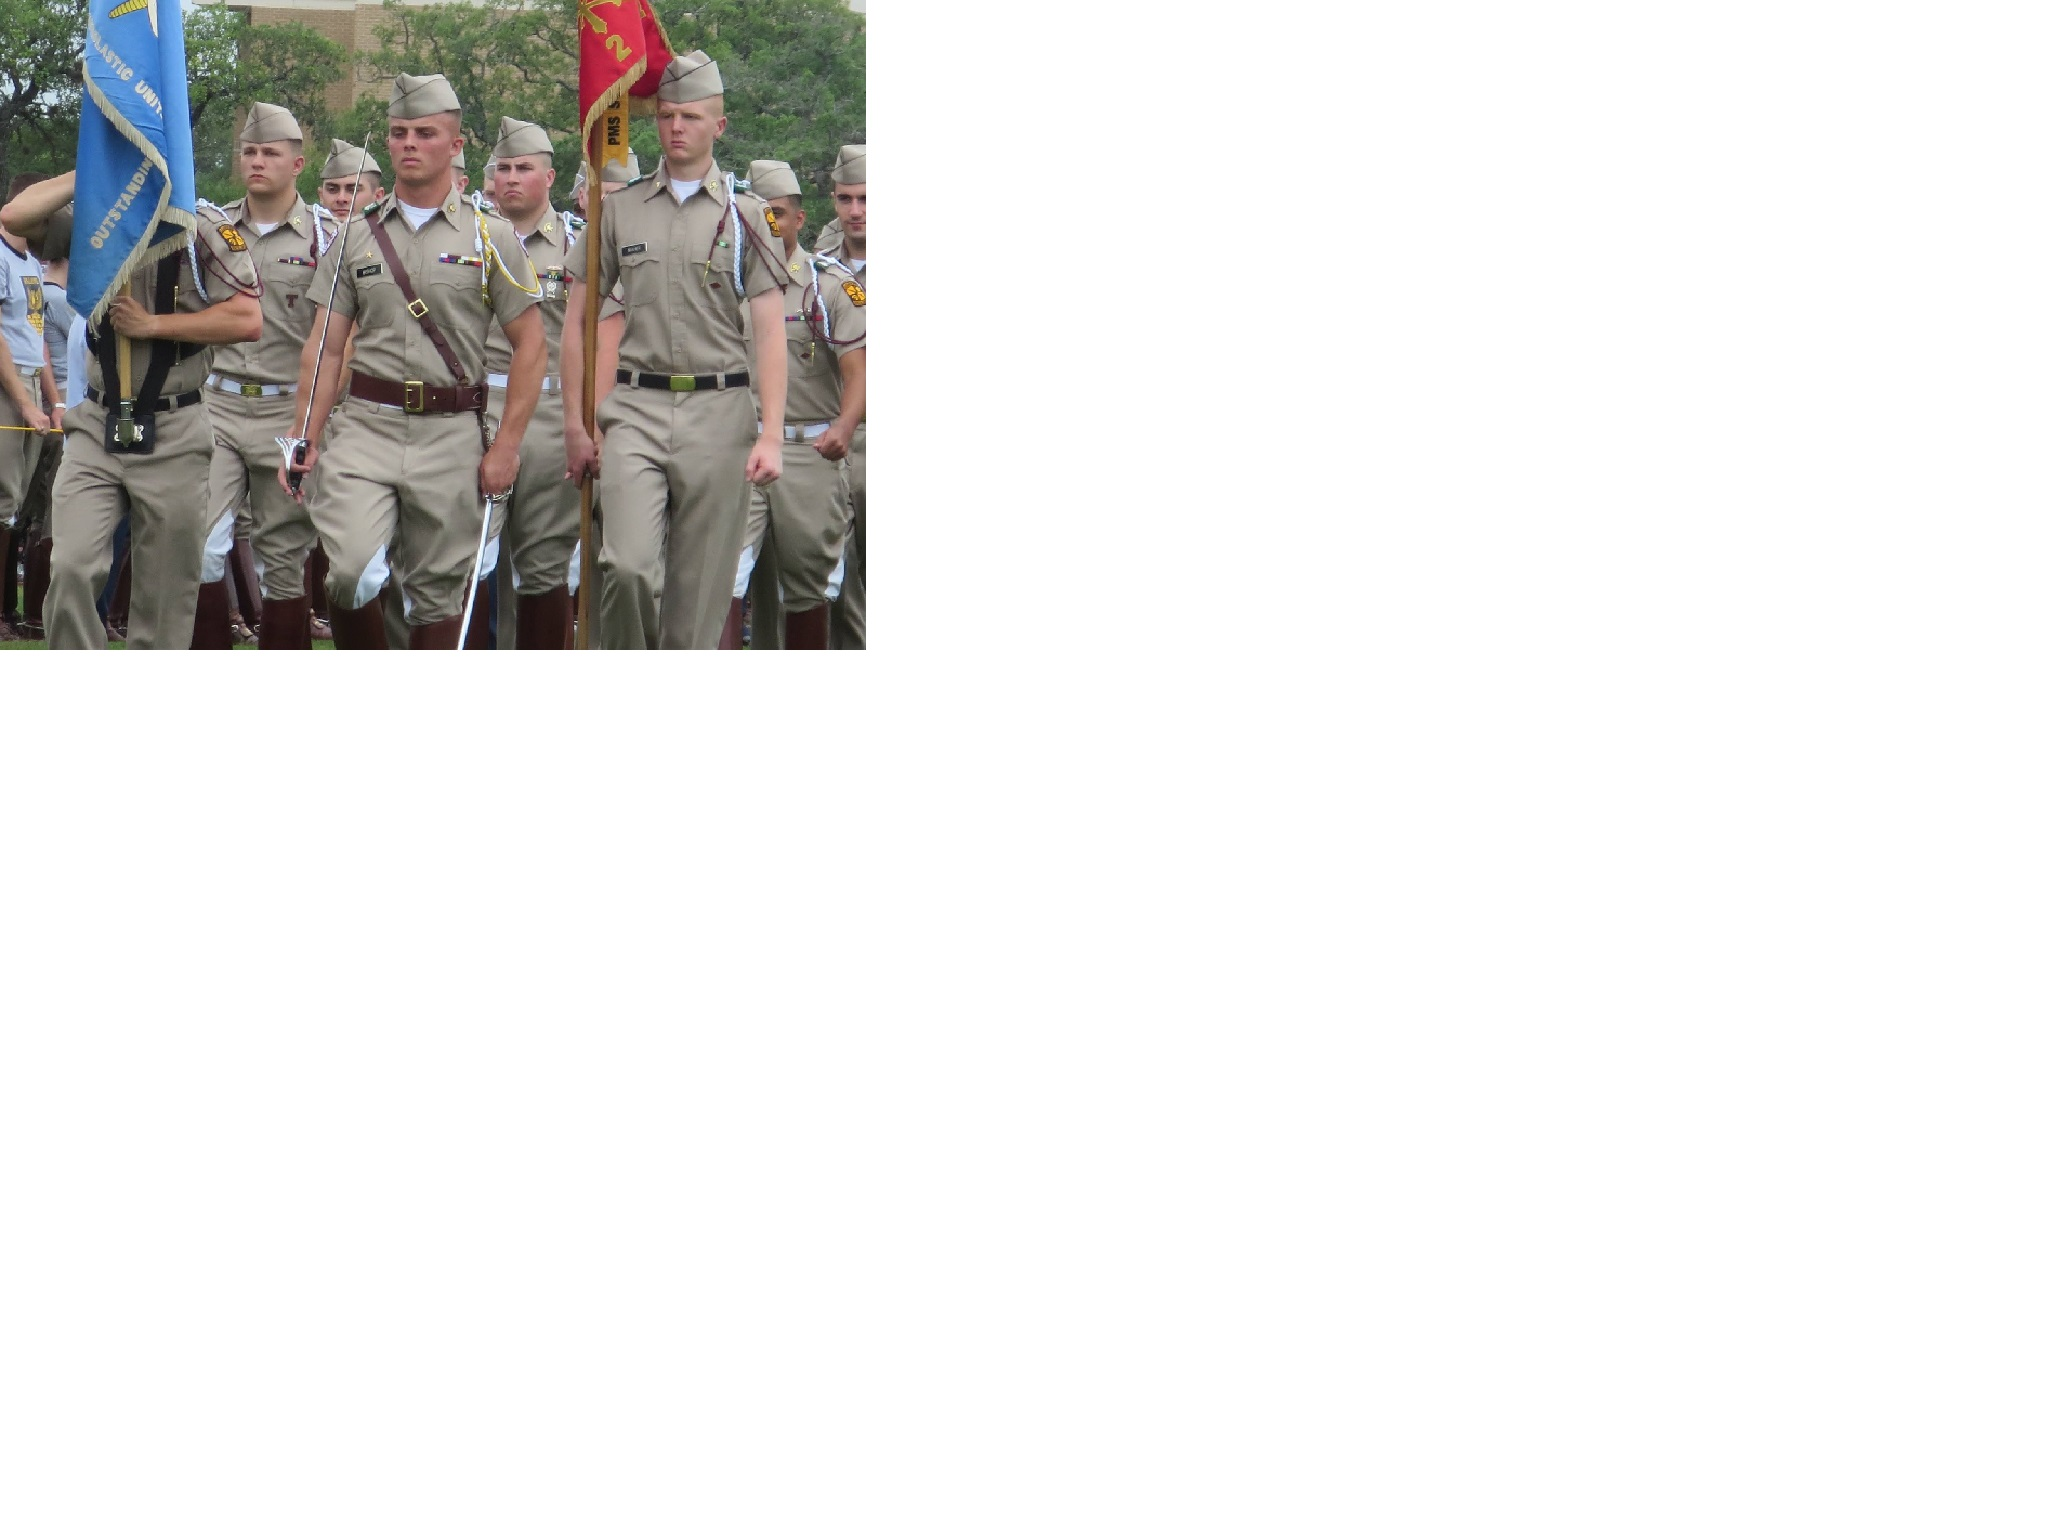
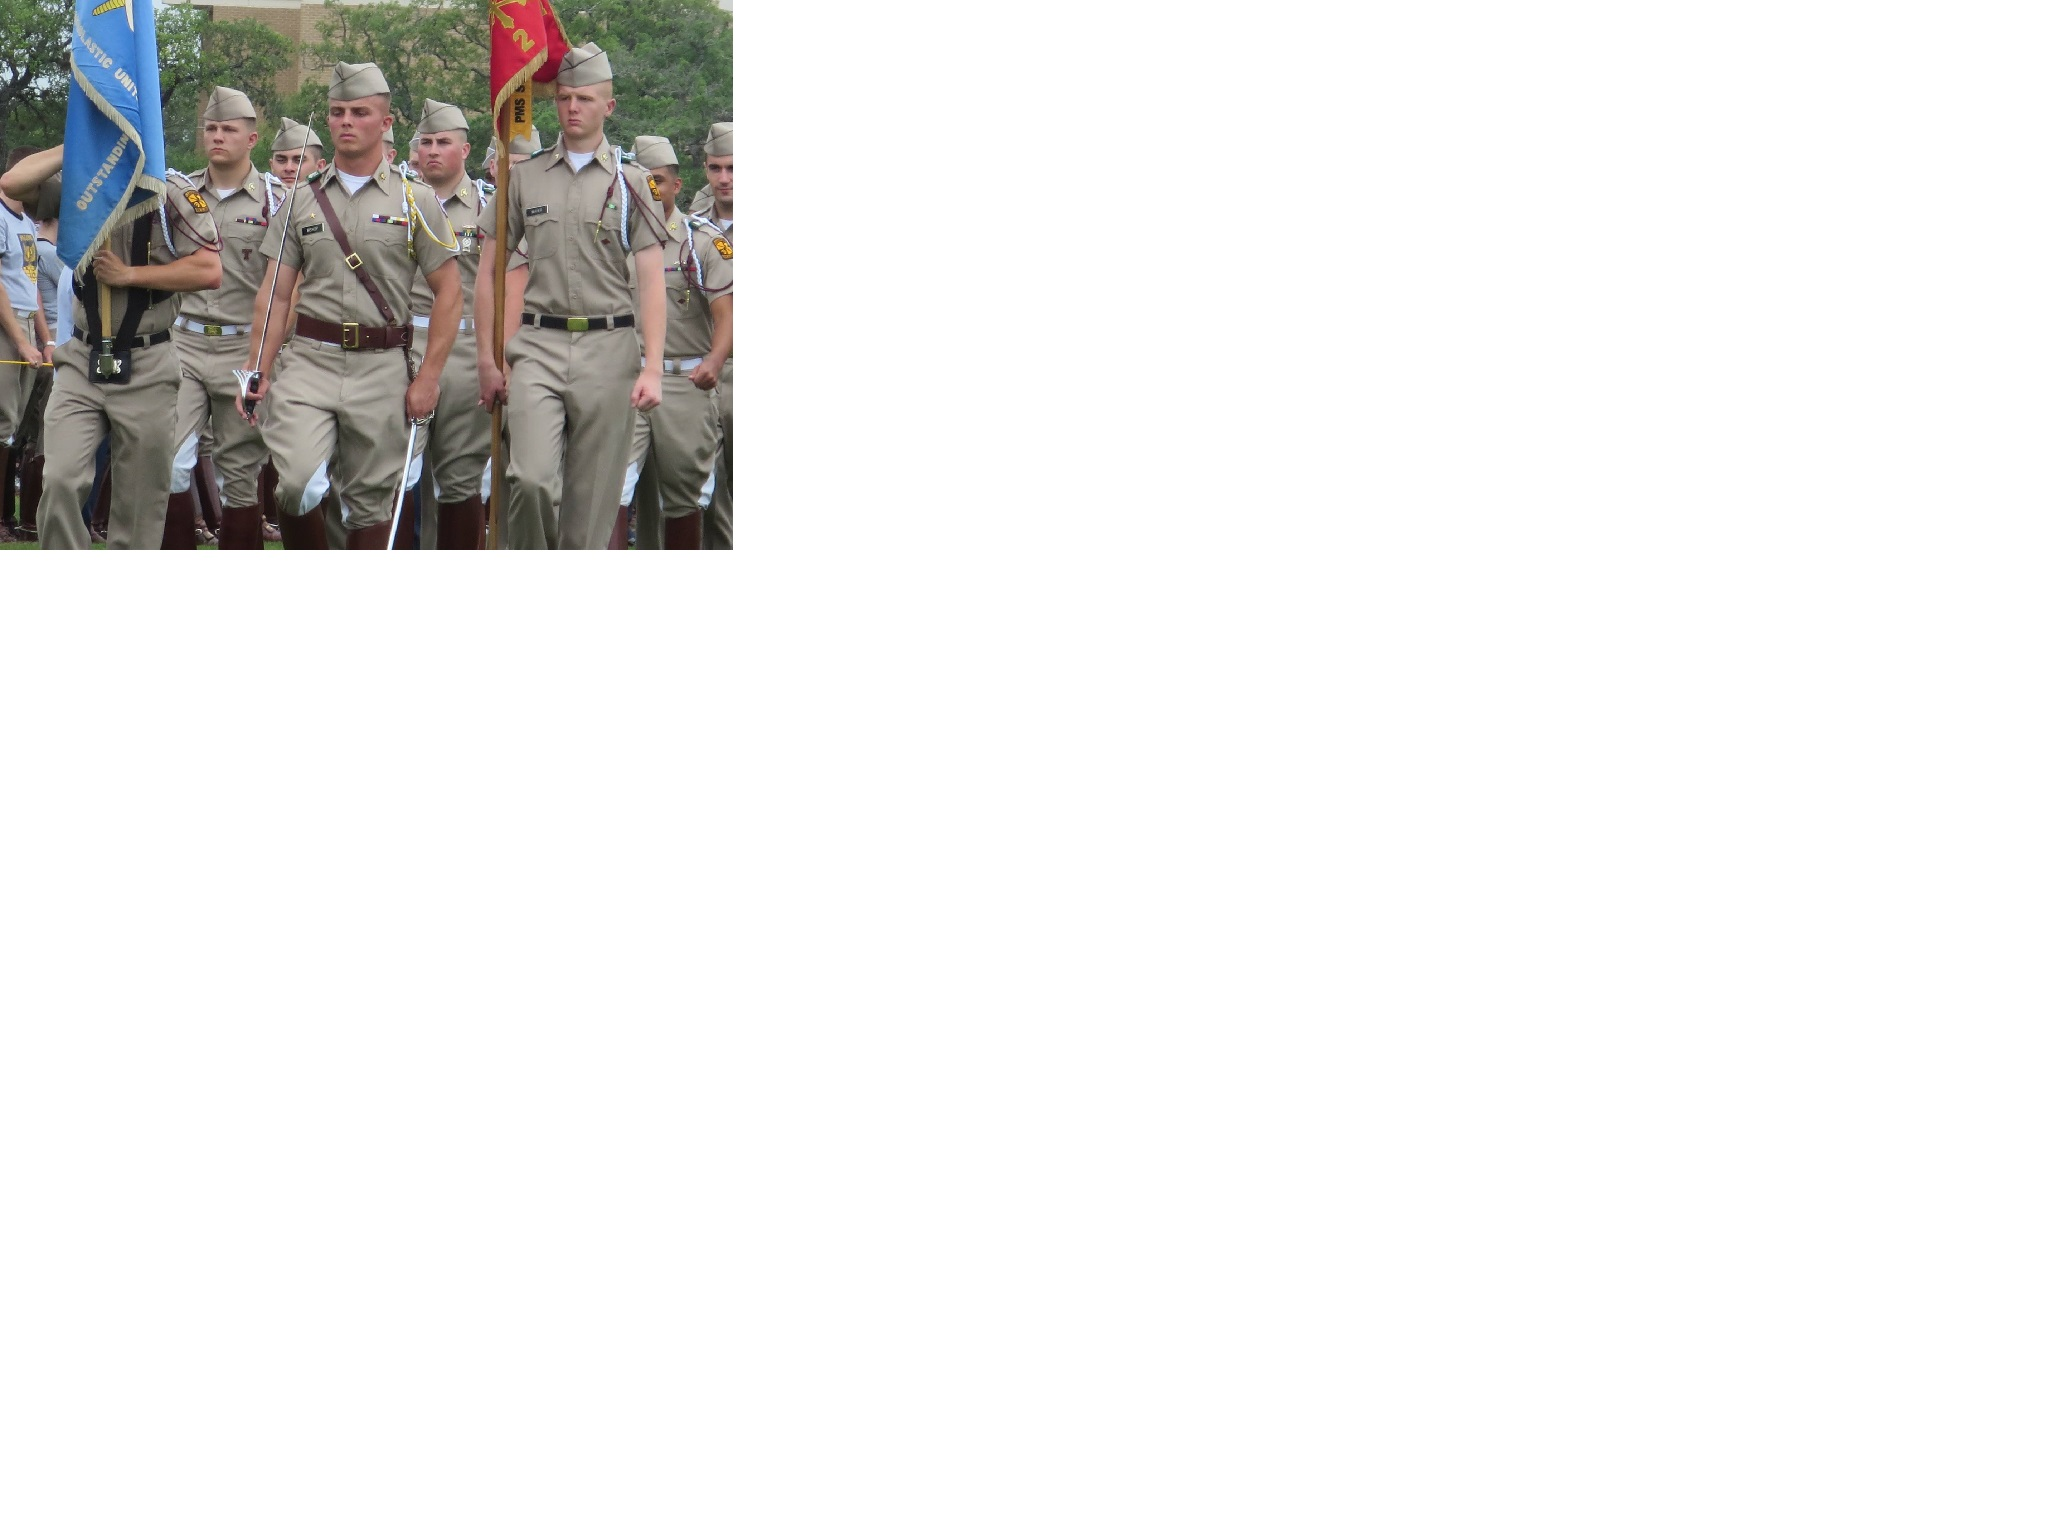
resizing home pictures

Changed region(s): [[0.0, 0.0, 0.4375, 0.4375]]

diff --git a/home/home.php b/home/home.php
@@ -18,7 +18,7 @@
 						</div>
 					</div>
                         <div class="slider-wrapper theme-default">
-                            <style>#slider {width: 90%; height:692px; margin-left: auto; margin-right: auto;}</style>
+                            <style>#slider {width: 80%; height:500px; margin-left: auto; margin-right: auto;}</style>
                             <div id="slider" class="nivoSlider">
                                 <img src="home/images/March_In.jpg" data-thumb="home/images/March_In.jpg" alt="auto" />
                                 <img src="home/images/rudders.jpg" data-thumb="home/images/rudders.jpg" alt="auto" />
